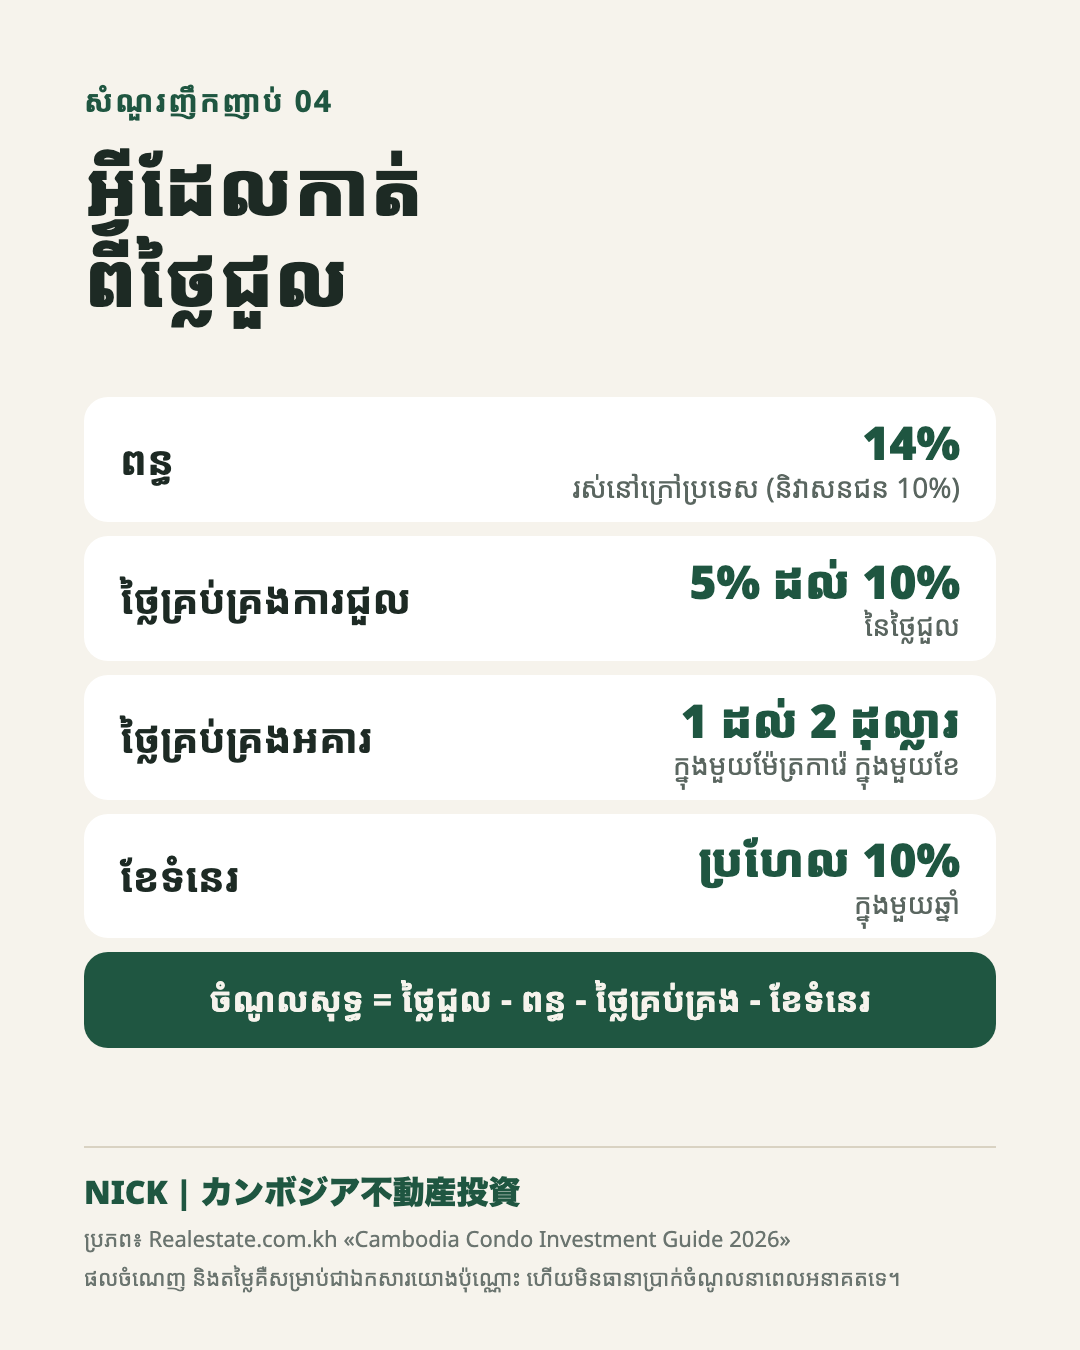
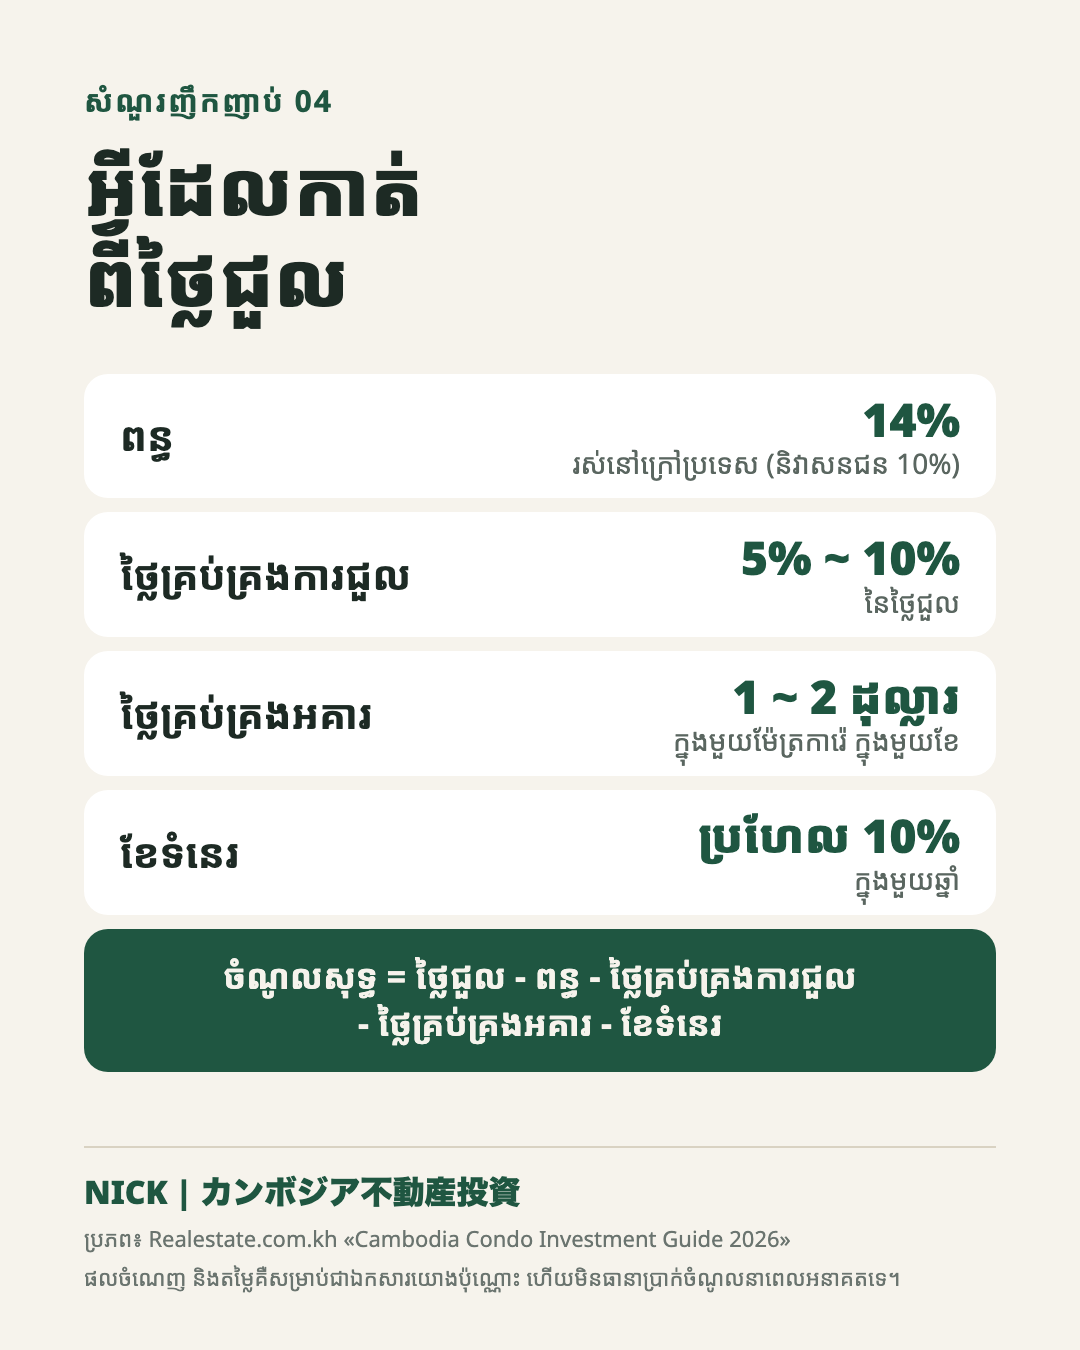
Nick_Cambodia_Bot: Nick's Khmer review, Khmer FAQ text and pictures on
All client screens, FAQ answers and short messages now use Nick's Khmer
(config/kh-review.cjs). Fixes agreed with him: 1 business day instead of
24 hours, up to 3 options, Nick confirms availability, buy or rent, two
spelling fixes, and the menu button is ម៉ឺនុយ everywhere. Khmer FAQ
pictures redrawn to his wording and switched on.

diff --git a/telegram-bot-public/tests/bot.test.js b/telegram-bot-public/tests/bot.test.js
@@ -146,7 +146,7 @@ const NICK = '353195979';
     for (const want of ['Short stay', '219 nights', '$13,140', '$9,108 before the operator fee', '$7,286', '8.7% of $84,000', 'If 14% rental tax applies', '6.5%']) assert.ok(x.includes(want), want + '\n' + x);
     assert.ok(!m.body.reply_markup.inline_keyboard.some((row) => row[0].text === 'Send to client'));
   });
-  await t('the FAQ shows its picture in Japanese and English, with the answer and buttons', async () => {
+  await t('the FAQ shows its picture in Japanese, English and Khmer, with the answer and buttons', async () => {
     const r = rig(), jp = r.U(31, 'ja'); await r.say(jp, '/start');
     await r.tap(jp, 'その他'); await r.tap(jp, 'よくある質問'); await r.tap(jp, '購入の流れ');
     const ph = r.sent.filter((x) => x.method === 'sendPhoto').pop();
@@ -155,7 +155,13 @@ const NICK = '353195979';
     await r.tap(en, 'More'); await r.tap(en, 'Common questions'); await r.tap(en, 'How buying works');
     const after = r.sent.slice(n0), enPh = after.find((x) => x.method === 'sendPhoto');
     assert.ok(enPh && /faq-02-process-en\.png\?v=/.test(enPh.body.photo) && /The buying process/.test(enPh.body.caption), 'English gets the English picture');
-    const step = require('../config/flow.json').steps.find((x) => x.id === 'faq4'); assert.ok(!step.photo.kh, 'Khmer pictures stay off until Nick has checked the Khmer');
+    // Khmer since Nick's review (2026-11-01): Khmer picture, Nick's Khmer answer, the Khmer menu word
+    const kh = r.U(33, 'km'); await r.say(kh, '/start'); await r.tap(kh, 'ខ្មែរ'); const k0 = r.sent.length;
+    await r.tap(kh, 'ផ្សេងៗ'); await r.tap(kh, 'សំណួរញឹកញាប់'); await r.tap(kh, 'How buying works');
+    const khPh = r.sent.slice(k0).find((x) => x.method === 'sendPhoto');
+    assert.ok(khPh && /faq-02-process-kh\.png\?v=/.test(khPh.body.photo) && khPh.body.caption.includes('ចុះបញ្ជីផ្ទេរកម្មសិទ្ធិក្នុងនាមរបស់អ្នក'), 'Khmer gets the Khmer picture and answer');
+    const flow = require('../config/flow.json');
+    assert.ok(!JSON.stringify(flow).includes('ម៉ឺនុយមេ') && !JSON.stringify(flow).includes('24 ម៉ោង'), 'Khmer says ម៉ឺនុយ and 1 business day everywhere');
   });
   await t('estimate reading: amounts with commas, $, man and k; a project name; sizes, not fees per sqm', () => {
     const E = require('../engines/estimate.js');

diff --git a/telegram-bot-public/bot.js b/telegram-bot-public/bot.js
@@ -105,6 +105,11 @@ const MSG = {
   },
   myid: { jp: 'あなたのTelegram IDは {id} です。', en: 'Your Telegram ID is {id}.', kh: 'Telegram ID របស់អ្នកគឺ {id}។' },
 };
+// Nick's Khmer review (2026-11-01) replaces these Khmer texts; the file also feeds the screens (config/build-flow.cjs)
+Object.entries(require('./config/kh-review.cjs').msgs).forEach(([k, v]) => {
+  if (!MSG[k]) throw new Error('Khmer review: no message ' + k);
+  MSG[k].kh = v;
+});
 const fmtUsd = (n) => '$' + Math.round(n).toLocaleString('en-US');
 
 const nk = (x) => String(x || '').toLowerCase().replace(/[^a-z0-9]/g, '');
